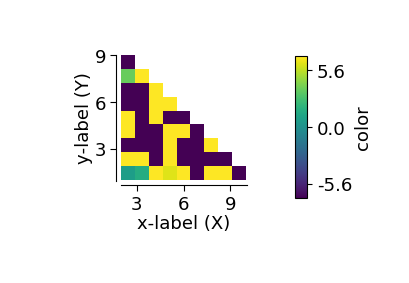
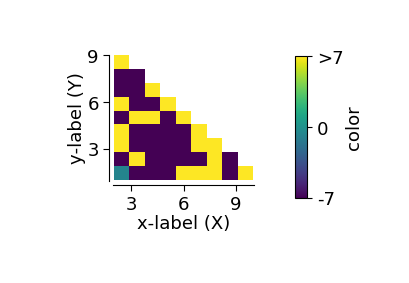
update ticks in bar legend

diff --git a/datavyz/legend.py b/datavyz/legend.py
@@ -34,14 +34,15 @@ def bar_legend(graph, stuff,
         cb = build_bar_legend_continuous(ax_cb, colormap,
                                          bounds=bounds,
                                          ticks=ticks,
-                                         ticks_labels=ticks,
+                                         ticks_labels=ticks_labels,
                                          orientation=orientation,
                                          alpha=alpha,
                                          scale=scale)
     else:
         cb = build_bar_legend(ax_cb, X,
                               colormap,
-                              scale=scale, bounds=bounds,
+                              scale=scale,
+                              bounds=bounds,
                               orientation=orientation,
                               color_discretization=color_discretization,
                               no_ticks=no_ticks,
@@ -246,7 +247,7 @@ def legend(graph, ax,
 
 if __name__=='__main__':
 
-    from datavyz import ge
+    from datavyz import ges as ge
 
     Y = [np.exp(np.random.randn(100)) for i in range(4)]
     

diff --git a/datavyz/surface_plots.py b/datavyz/surface_plots.py
@@ -175,6 +175,8 @@ if __name__=='__main__':
     fig2, ax, acb = twoD_plot(ge, x, y, z,
                               vmin=-7, vmax=7,
                               bar_legend_args={'label':'color',
+                                               'ticks':[-7, 0, 7],
+                                               'ticks_labels':['-7', '0', '>7'],
                                                'color_discretization':20})
     ge.set_plot(ax, xlabel='x-label (X)', ylabel='y-label (Y)')
     
